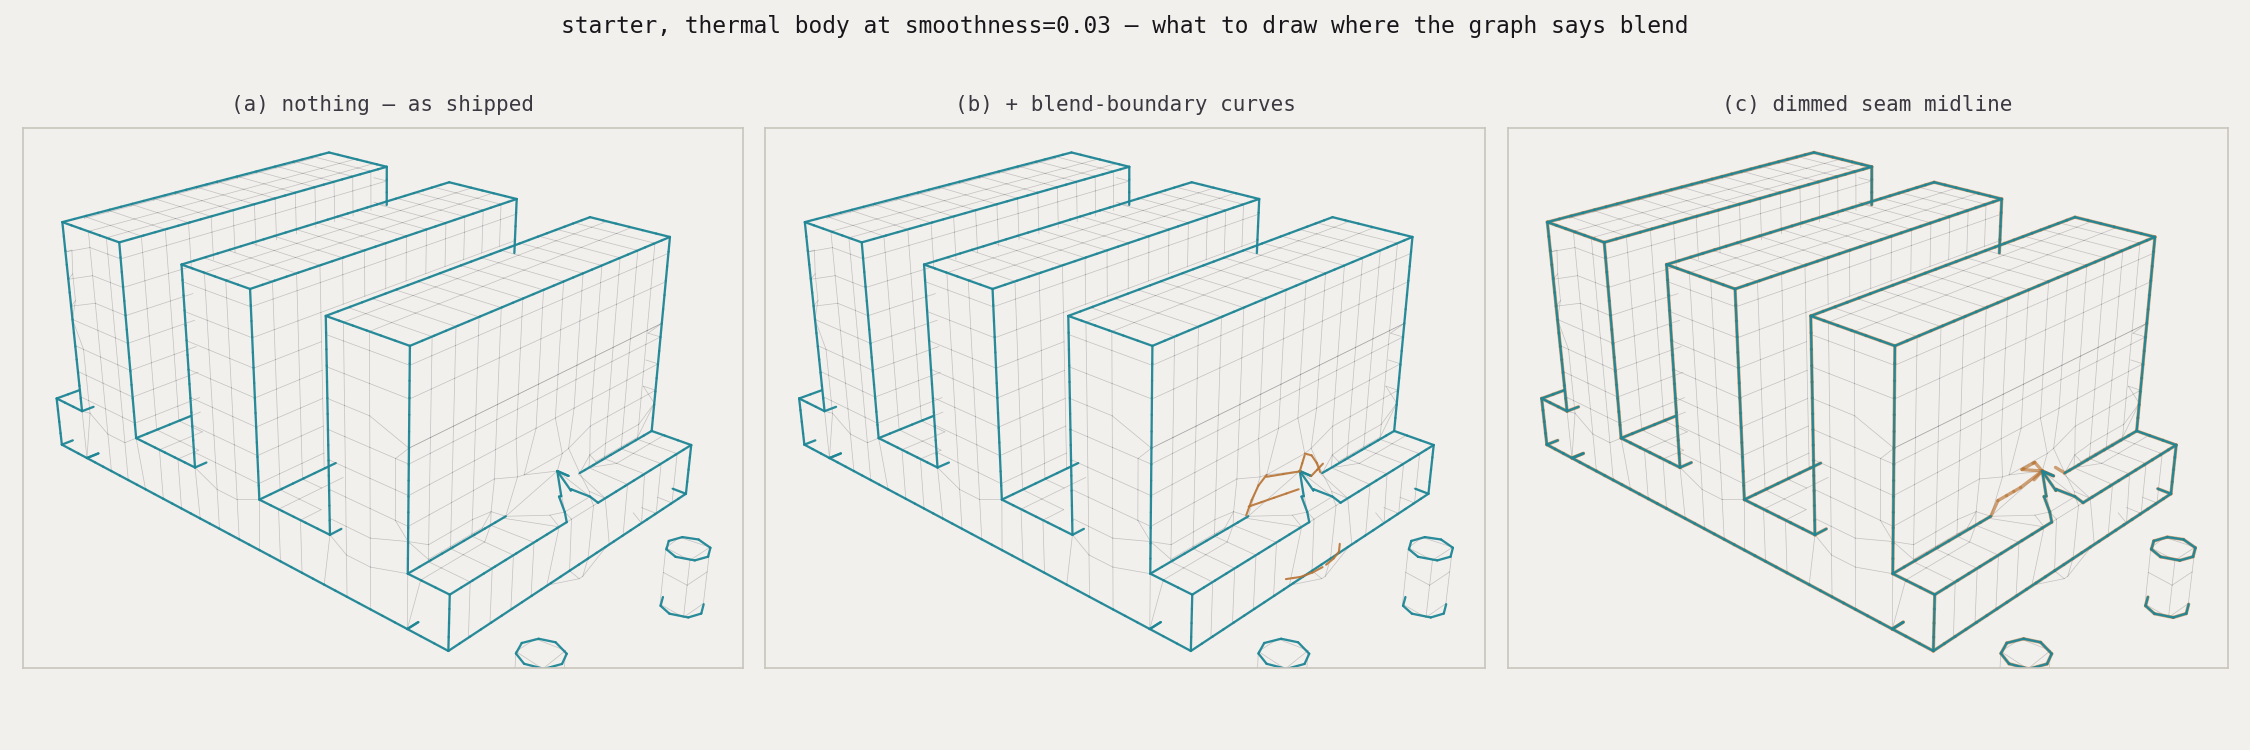
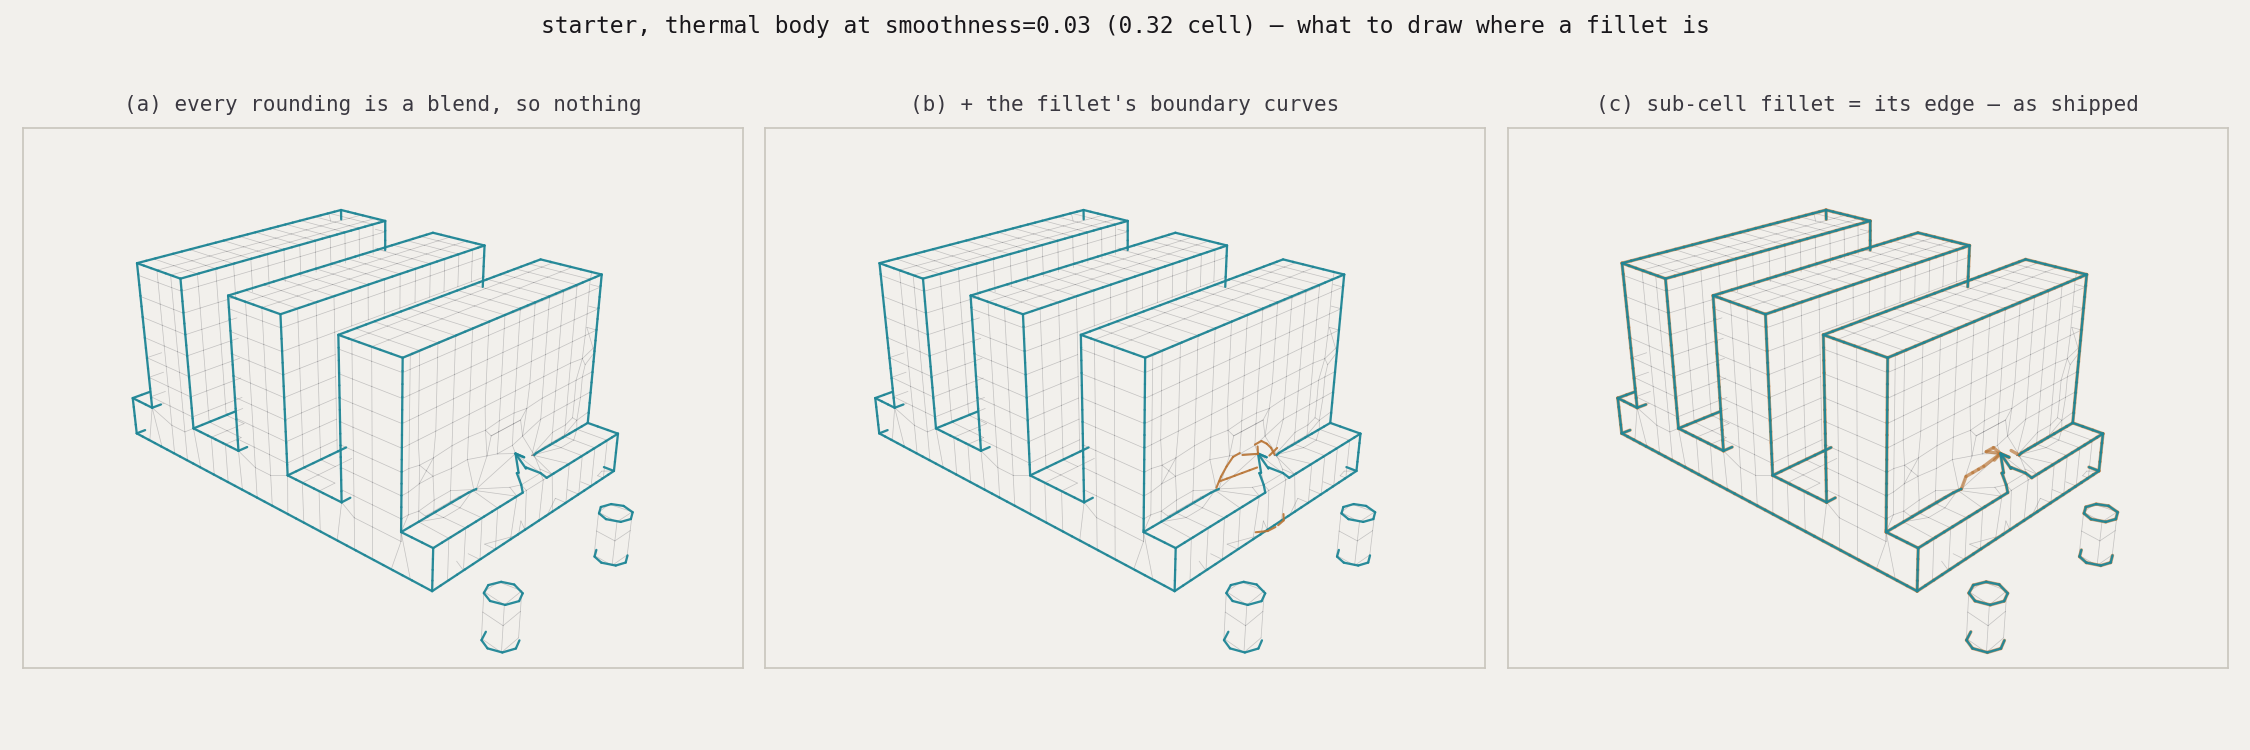
Draw a sub-cell fillet as the edge it looks like
The feature-edge layer refused every blended seam, which was the right call
for a real fillet and the wrong one for scenes/bracket.py: every joint
there is rounded at 0.02–0.05 against a 0.094 viewport cell, so the bore
rims and the web-to-plate line simply vanished. On a 64-cell grid a fillet
finer than one cell cannot be shown as curvature — dual contouring rounds
it into a single vertex — so its virtual sharp edge sits within a cell of
the surface and is the edge a CAD user is looking for.

The blend test measures the owning patch's value on the scene's zero set,
and for smooth_min that is exactly the smoothness radius at the middle of
the band, so the threshold is a radius in the user's units with no fudge
factor: one cell. Passed from the overlay only; the graph's export-grade
default is untouched. Bracket: 27 blend faces → 0, 61 of 63 edges drawn;
the 40 edge-artifact oracle tests are byte-identical (all sharp scenes).

Claude-Session: https://claude.ai/code/session_01KtNCzqmu67CRvfjZ1PZu82

diff --git a/tests/viewer/test_edge_overlay_brep.py b/tests/viewer/test_edge_overlay_brep.py
@@ -216,6 +216,80 @@ def test_a_bore_is_the_same_curve_wherever_the_lattice_falls(offset):
 
 
 # --------------------------------------------------------------------------
+# Fillets: sub-cell ones are the edge they round
+# --------------------------------------------------------------------------
+
+
+def _filleted_bore(smoothness: float):
+    """A plate with a round bore, the break-out rounded by ``smoothness``."""
+    return Difference(
+        Box(size=Vector([0.9, 0.7, 0.35])),
+        Cylinder(radius=0.32, height=1.0),
+        smoothness=smoothness,
+    )
+
+
+@pytest.mark.parametrize("radius", [0.02, 0.5 * CELL], ids=["bracket-sized", "half-cell"])
+def test_a_sub_cell_fillet_is_drawn_as_the_edge_it_rounds(radius):
+    """A fillet finer than a cell keeps its rim.
+
+    ``scenes/bracket.py`` rounds every junction — 0.05 at the web and 0.02
+    at the bores — and at the viewport's 0.094 cell none of that is
+    resolvable curvature: the dual-contour surface puts one vertex where the
+    fillet is.  Classifying it as a blend deleted the bore rims and the
+    web-to-plate line from the overlay, which is not what the part looks
+    like.  Below :data:`~cadjoint.viewer._edge_overlay._BLEND_AS_EDGE_CELLS`
+    the corner is drawn, and it is drawn *exactly*: the rim is still the
+    intersection of the plane and the cylinder, to the projection's floor.
+    """
+    brep, spacing = _extract_graph(_filleted_bore(radius))
+    assert [face for face in brep.faces if face.kind == "blend"] == []
+
+    points = _endpoints(_sharp_chords(brep, spacing))
+    on_bore = np.abs(np.hypot(points[:, 0], points[:, 1]) - 0.32) < 0.02
+    assert on_bore.sum() > 80, "the rounded bore lost its rim"
+    rim = points[on_bore]
+    assert np.abs(np.hypot(rim[:, 0], rim[:, 1]) - 0.32).max() < EXACT
+    assert np.abs(np.abs(rim[:, 2]) - 0.35).max() < EXACT
+
+
+@pytest.mark.parametrize("radius", [2.0 * CELL, 3.0 * CELL], ids=["two-cell", "three-cell"])
+def test_a_fillet_wider_than_a_cell_is_not_drawn(radius):
+    """Above the cut the fillet is real curvature, and gets no line.
+
+    The virtual sharp edge of a fillet this size sits a cell or more inside
+    the material.  Drawing it would put a line where the model has none —
+    the failure the threshold exists to bound on the other side.
+    """
+    brep, spacing = _extract_graph(_filleted_bore(radius))
+    assert [face for face in brep.faces if face.kind == "blend"] != []
+
+    points = _endpoints(_sharp_chords(brep, spacing))
+    on_bore = np.abs(np.hypot(points[:, 0], points[:, 1]) - 0.32) < CELL
+    assert on_bore.sum() == 0, "a line was drawn inside a resolvable fillet"
+
+
+def test_the_threshold_is_the_radius_the_user_typed():
+    """Why the constant needs no calibration factor.
+
+    ``smooth_min(a, b, k)`` is ``min(a, b) - h²/(16k)`` with
+    ``h = max(4k - |a - b|, 0)``, so where the two surfaces meet (``a = b``)
+    it pulls the result down by exactly ``k`` and nowhere by more.  The
+    blend test asks the owning patch for its value on the scene's own zero
+    set, so ``|f_patch|`` on a fillet runs from 0 at the band's edge to
+    ``k`` at its middle — which is what makes ``blend_tolerance`` readable
+    directly as "the largest radius still counted as an edge".
+    """
+    from cadjoint.sdf.boolean.smooth import smooth_min
+
+    for k in (0.02, 0.05, 0.3):
+        coincident = float(smooth_min(np.float64(0.0), np.float64(0.0), k))
+        assert coincident == pytest.approx(-k, rel=1e-6)
+        # And outside the band it is exactly the hard minimum.
+        assert float(smooth_min(np.float64(0.0), np.float64(5.0 * k), k)) == pytest.approx(0.0)
+
+
+# --------------------------------------------------------------------------
 # Grazing contacts
 # --------------------------------------------------------------------------
 

diff --git a/cadjoint/viewer/_edge_overlay.py b/cadjoint/viewer/_edge_overlay.py
@@ -65,6 +65,31 @@ _PROJECTION_STEPS = 4
 # uniform in angle.
 _SHARP_SAMPLE_FRACTION = 0.5
 
+# Largest fillet radius, in cells, that is still drawn as a sharp edge.
+#
+# ``smooth_min(a, b, k)`` displaces the surface from the sharp corner by
+# exactly ``k`` at the midline of the blend band and by nothing at its
+# edges, so ``|f_patch|`` on a fillet runs from 0 up to ``k`` — which makes
+# the graph's ``blend_tolerance`` *directly* the radius above which a
+# rounded corner stops counting as an edge.  No other calibration is
+# needed; the tolerance is in the same units as the radius the user typed.
+#
+# One cell is the cut because that is where the overlay stops being able to
+# tell the difference.  A fillet finer than a cell cannot be *shown* as
+# curvature on a 64-cell grid — the dual-contour surface rounds it into one
+# vertex — so drawing its virtual sharp edge puts a line within a cell of
+# the surface, where the viewport reads it as the edge a CAD user expects.
+# Above a cell the fillet is a feature the viewport genuinely renders, and
+# a line buried inside it would be a line that is not on the model.
+#
+# Real parts sit well under the cut and read as edges: ``scenes/bracket.py``
+# blends at 0.05 and 0.02, ``scenes/starter.py`` at 0.03 and 0.005, against
+# a 0.094 cell.  The graph's own default (a thousandth of the grid diagonal,
+# 0.0104 here, about a ninth of a cell) is calibrated for *export*, where
+# any rounding at all must be honoured; it drew almost nothing on the
+# bracket, which is what this replaces.
+_BLEND_AS_EDGE_CELLS = 1.0
+
 # Largest ``|f|`` an edge may still carry and be drawn, as a fraction of the
 # grid spacing.  A genuine two-patch curve converges to ~1e-8; a pair of
 # patches that never actually meet (the parallel faces of a sub-cell slab,
@@ -350,6 +375,10 @@ def _extract_graph(scene: Any) -> tuple[BRep, np.ndarray]:
     edge curves, never a face's closed form, and fitting is a projection
     program plus a gradient program per face.
 
+    The blend tolerance is the overlay's own, not the graph's export-grade
+    default: a fillet finer than one cell is classified as the sharp corner
+    it rounds, and so gets drawn.  See :data:`_BLEND_AS_EDGE_CELLS`.
+
     Args:
         scene: Root SDF node.
 
@@ -368,7 +397,13 @@ def _extract_graph(scene: Any) -> tuple[BRep, np.ndarray]:
         # open-boundary warning would fire on every compile and say nothing
         # a viewer user can act on.  Clipping to the view is the point.
         warnings.filterwarnings("ignore", message="The isosurface crosses the extraction boundary")
-        brep = extract_brep(scene, grid, steps=_PROJECTION_STEPS, fit_surfaces=False)
+        brep = extract_brep(
+            scene,
+            grid,
+            steps=_PROJECTION_STEPS,
+            fit_surfaces=False,
+            blend_tolerance=_BLEND_AS_EDGE_CELLS * float(max(grid.spacing)),
+        )
     return brep, np.asarray(grid.spacing, dtype=np.float64)
 
 

diff --git a/research/brep-architecture.md b/research/brep-architecture.md
@@ -708,15 +708,20 @@ Measured, `_mesh_edge_payload` on `scenes/starter.py`, wall clock:
 
 | `scenes/starter.py` | before (lattice links) | after (graph) |
 |---|---|---|
-| cold process — what the viewer pays, `mesh_source` forks per request | 16.9 s | **9.8 s** |
-| warm, second call in one process | 4.3 s | 5.5–6.0 s |
-| sharp segments | 453 | 889 |
+| cold process — what the viewer pays, `mesh_source` forks per request | 16.9 s | **8.6 s** |
+| warm, second call in one process | 4.3 s | 5.2–6.0 s |
+| sharp segments | 453 | 1006 |
 
 | `scenes/end_cap.py` | before | after |
 |---|---|---|
-| cold process | 215 s | **33.8 s** |
-| warm | 219 s | **32.3 s** |
-| sharp segments | 357 | 1043 |
+| cold process | 215 s | **32.5 s** |
+| warm | 219 s | **29.5 s** |
+| sharp segments | 357 | 1383 |
+
+Both columns are timed with `JAX_ENABLE_X64=1`, so the comparison is
+like-for-like; the shipped float32 default is faster still — starter 7.7 s
+cold, end-cap 27.1 s — and lands a handful of segments either way as the
+residual gate falls differently (starter 996, end-cap 1422).
 
 The cold number is the one the product pays, and the end-cap is where the
 difference shows: its cost was never compilation (before and after, warm
@@ -737,20 +742,62 @@ renders of the starter are in `research/design/light-chrome/edges-before-after*.
 the visible differences are the press-fit bush rims (drawn as circles, and not drawn
 at all before) and the curves that now run into their corners.
 
-**Blends: draw nothing.** Rendered three ways on the starter
-(`research/design/light-chrome/edges-blends.png`): nothing, the fillet's own
-boundary curves, and the virtual sharp edge the fillet replaced (which is
-just `blend_tolerance=inf`). The boundary curves are 48 edges totalling 3.7
-of arc length against 35.8 for the real edges — an average of 0.077, under a
-cell each — and they render as a scribble, not a curve; the battery's debris
-rule would reject them on their own metric. The virtual midline is a near-tie
-*on this scene only*, because the starter's fillets are sub-cell (0.03
-against a 0.094 cell) so the line it draws is within a third of a cell of the
-surface; at any manufacturable radius it is a line floating off the model,
-and a curve that is not on the model is not an edge. That is not a style
-choice — it is right for exactly one radius — so it gets no payload flag.
-The price is honest and visible: where a fillet is detected the curves stop,
-and the graph is saying the model has no edge there.
+**Blends: a fillet finer than a cell is the edge it rounds.** Rendered three
+ways on the starter (`research/design/light-chrome/edges-blends.png`): nothing,
+the fillet's own boundary curves, and the virtual sharp edge the fillet
+replaced. On a sub-cell fillet the boundary curves are out on their own
+numbers — on the starter, 61 blend-adjacent edges totalling 4.1 of arc length
+against 34.6 for the analytic edges, an average of 0.067, well under a cell
+each — and they render as a scribble, not a curve; the battery's debris rule
+would reject them on their own metric. That leaves the choice between nothing
+and the virtual sharp edge, and it is not a matter of taste: it is a question
+of *radius against cell*, and the graph already has the dial.
+
+`smooth_min(a, b, k)` is `min(a, b) - h²/(16k)` with `h = max(4k - |a-b|, 0)`,
+so it pulls the surface down from the sharp corner by exactly `k` where the two
+operands meet and by nothing at the band's edges. The blend test asks the
+owning patch for its value on the scene's own zero set, so `|f_patch|` across a
+fillet runs from 0 to `k` — which makes `blend_tolerance` **directly** the
+largest radius still counted as an edge, in the same units as the number the
+user typed. No calibration factor, and
+`tests/viewer/test_edge_overlay_brep.py::test_the_threshold_is_the_radius_the_user_typed`
+pins the identity.
+
+The overlay therefore sets `blend_tolerance` to **one cell**
+(`_BLEND_AS_EDGE_CELLS`), where its own resolution runs out: a fillet finer
+than a cell cannot be *shown* as curvature on a 64-cell grid — dual contouring
+rounds it into one vertex — so its virtual sharp edge lands within a cell of
+the surface and reads as the edge a CAD user is looking for. Above a cell the
+fillet is curvature the viewport genuinely renders, and a line buried inside it
+would be a line that is not on the model. The transition is sharp and measured,
+on a plate with a rounded bore:
+
+| fillet radius | blend faces | rim drawn | rim radius error |
+|---|---|---|---|
+| 0.02 (0.21 cell) | 0 | 86 points | 1.9 × 10⁻⁸ |
+| 0.047 (0.50 cell) | 0 | 86 points | 2.1 × 10⁻⁸ |
+| 0.188 (2.0 cells) | 2 | none | — |
+| 0.281 (3.0 cells) | 4 | none | — |
+
+The graph's own default — a thousandth of the grid diagonal, 0.0104 here, about
+a *ninth* of a cell — is calibrated for export, where any rounding at all must
+be honoured. Left in place it deleted most of `scenes/bracket.py`, which rounds
+every junction (`Union(..., smoothness=0.05)`, `Difference(..., 0.02)`), and
+the bore rims and the web-to-plate line were simply absent:
+
+| `scenes/bracket.py` | export default (0.11 cell) | overlay (1 cell) |
+|---|---|---|
+| faces / of which blend | 55 / 27 | 28 / **0** |
+| edges / drawn | 121 / 35 | 63 / **61** |
+| sharp segments | 749 | **1246** |
+
+The two undrawn edges at one cell are refused by the residual gate, which is
+the safety net doing its job. The same shift on the starter is 78 faces / 26
+blend and 81 of 163 edges drawn, against 57 / 0 and 103 of 114. Before and
+after in `research/design/light-chrome/edges-bracket.png`.
+
+This is a threshold, not a style choice, so it stays a named constant and gets
+no payload flag.
 
 ---
 
